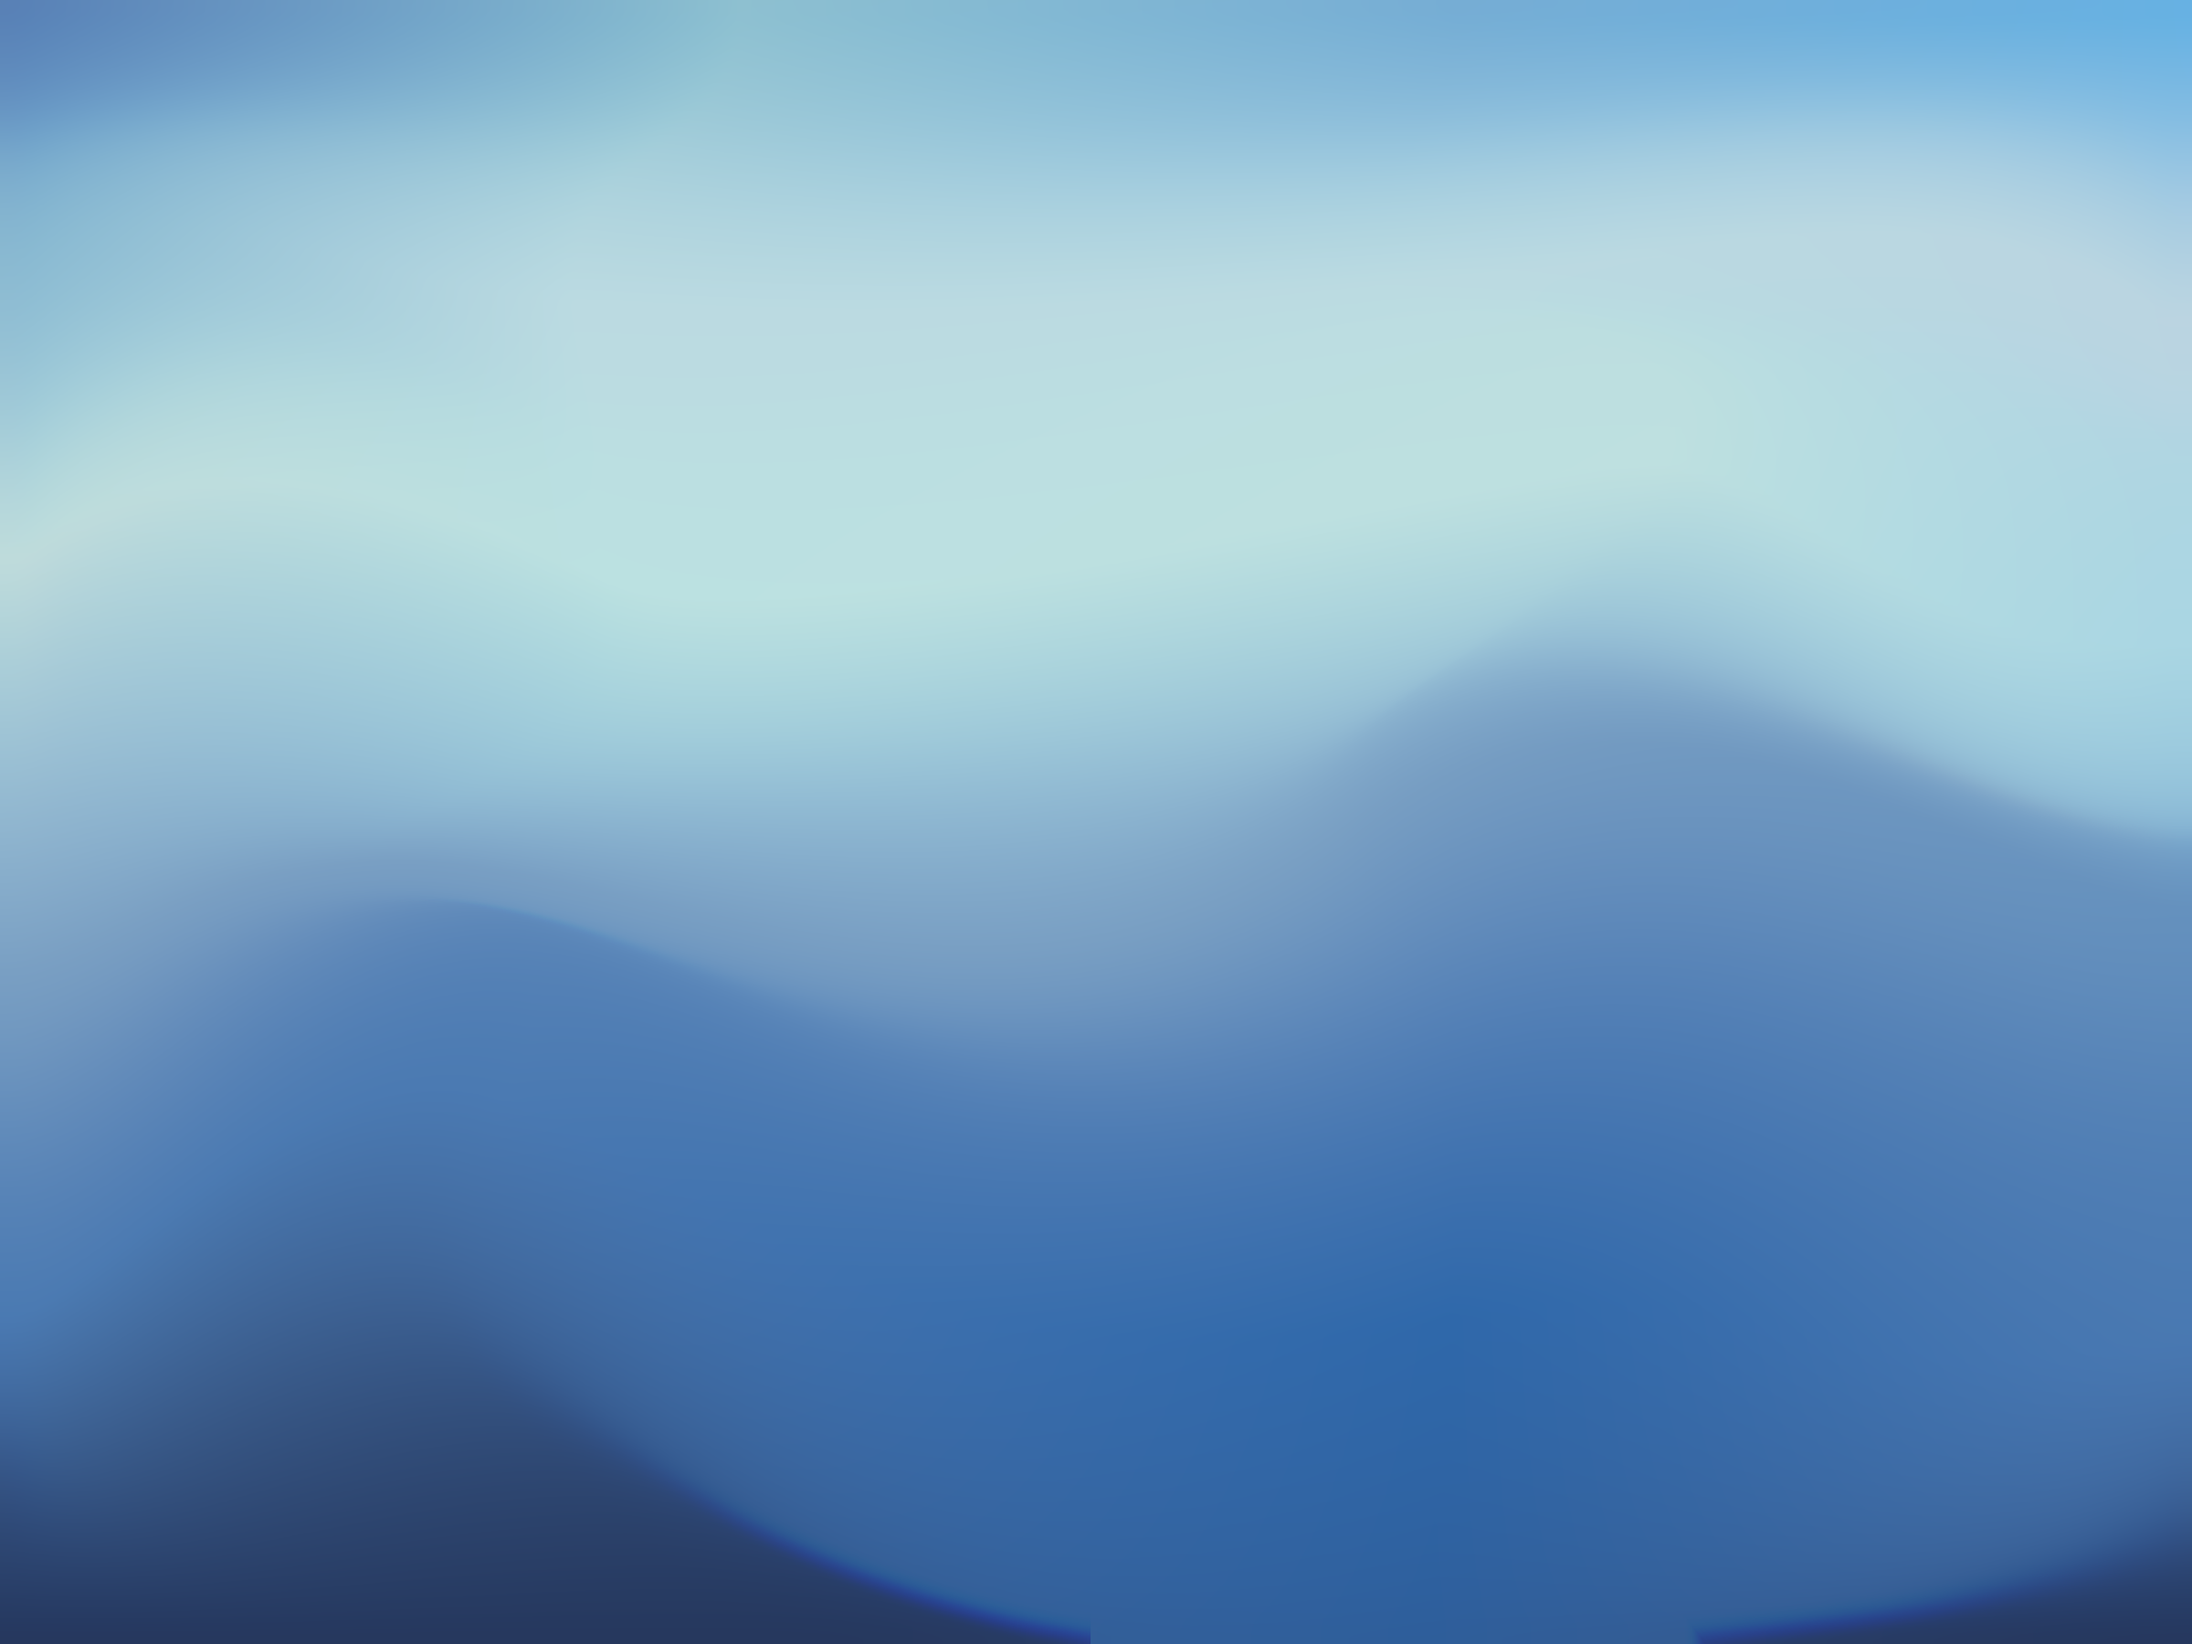
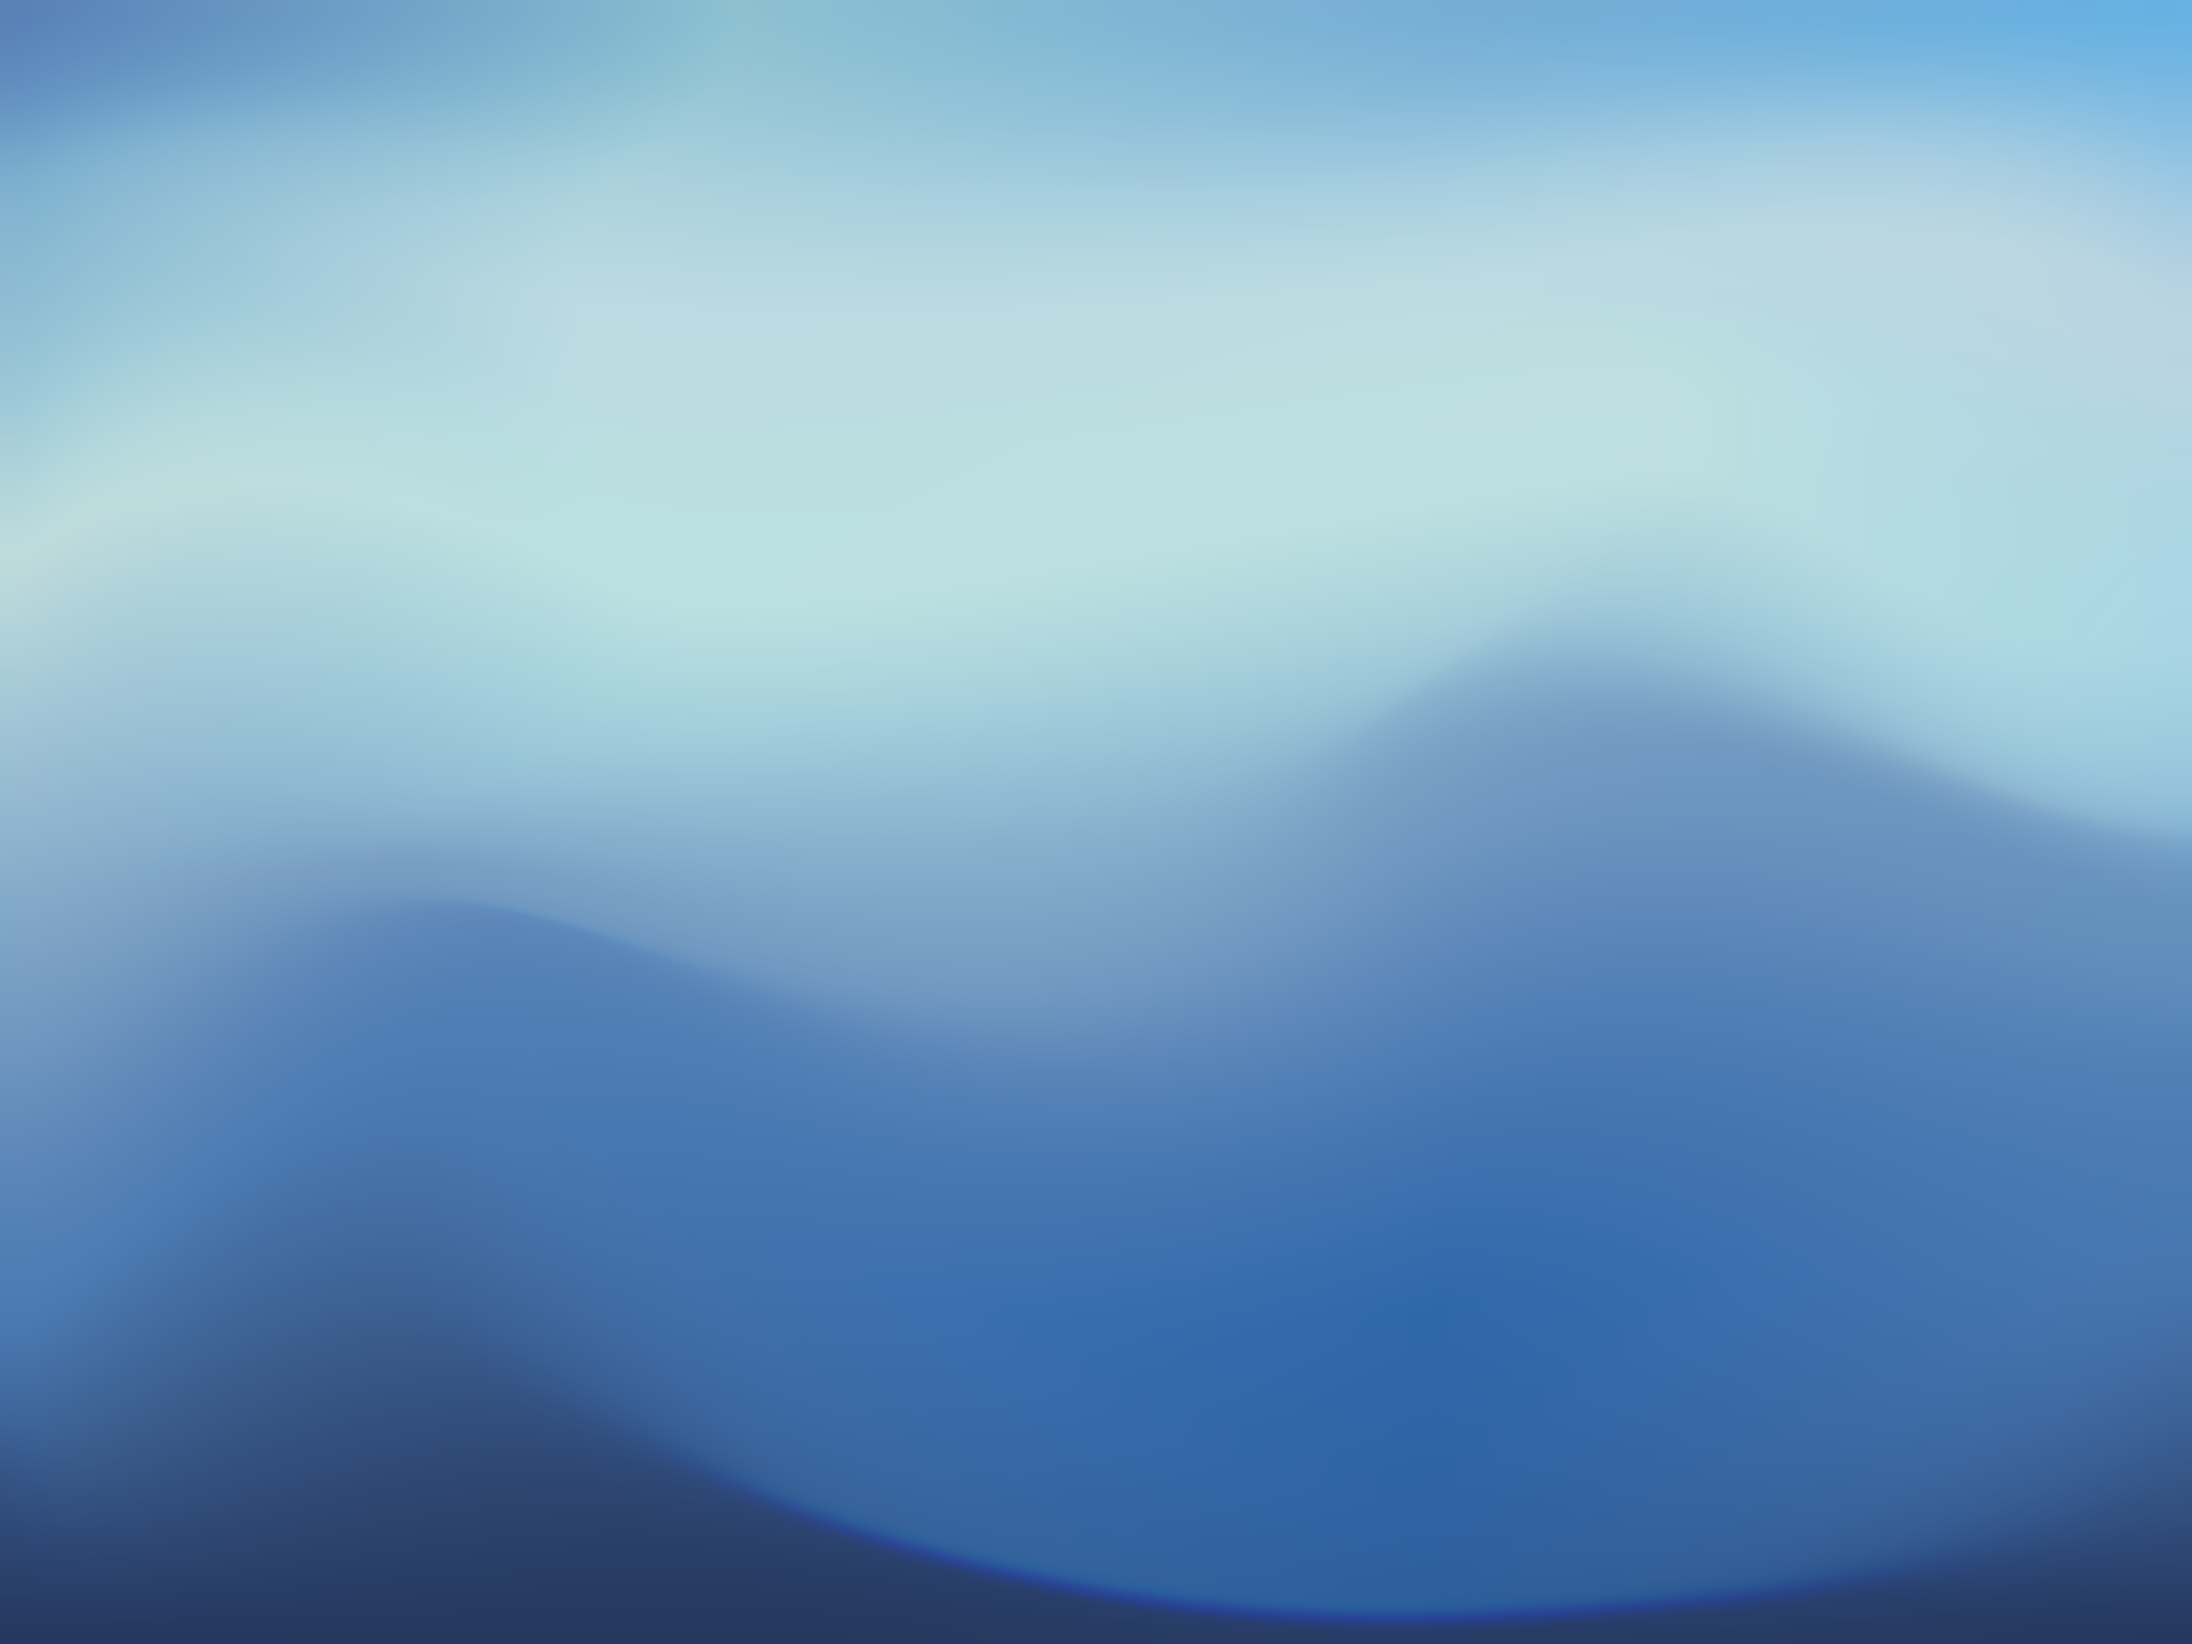
pre-mode ui优化

Changed region(s): [[0.3125, 0.9022, 0.9688, 1.0]]

diff --git a/src/components/ChatInput.tsx b/src/components/ChatInput.tsx
@@ -23,6 +23,13 @@ export default function ChatInput({ isLoading, engineReady, onSendText, onReinit
     if (focusTrigger) textareaRef.current?.focus();
   }, [focusTrigger]);
 
+  useEffect(() => {
+    const el = textareaRef.current;
+    if (!el) return;
+    el.style.height = 'auto';
+    el.style.height = `${el.scrollHeight}px`;
+  }, [text]);
+
   const doSubmit = () => {
     const value = text.trim();
     if (!value || isLoading) return;
@@ -54,9 +61,9 @@ export default function ChatInput({ isLoading, engineReady, onSendText, onReinit
           }
         }}
         placeholder="输入文字描述音乐..."
-        rows={3}
+        rows={1}
         disabled={isLoading}
-        className="w-full min-h-[108px] resize-none rounded-[12px] bg-[#111111] px-4 pt-4 pb-12 pr-16 text-base md:text-sm text-[#cccccc] placeholder:text-[#888888] outline-none transition duration-200 focus:ring-1 focus:ring-[#323232] disabled:cursor-not-allowed disabled:opacity-50"
+        className="w-full min-h-[108px] resize-none overflow-hidden rounded-[12px] bg-[#111111] px-4 pt-4 pb-12 pr-16 text-base md:text-sm text-[#cccccc] placeholder:text-[#888888] outline-none transition duration-200 focus:ring-1 focus:ring-[#323232] disabled:cursor-not-allowed disabled:opacity-50"
       />
 
       {!engineReady && (

diff --git a/src/App.tsx b/src/App.tsx
@@ -457,7 +457,7 @@ export default function App() {
 
           {/* Suggestion chips — horizontal scroll */}
           {!isLoading && !suggestionsLoading && demoSuggestions.length > 0 && (
-            <div className="flex overflow-x-auto gap-2 pb-2 mt-3 no-scrollbar">
+            <div className="suggestion-chips flex overflow-x-auto gap-2 pb-2 mt-3 no-scrollbar">
               {demoSuggestions.map((s) => (
                 <button
                   key={s}

diff --git a/src/components/Sidebar.tsx b/src/components/Sidebar.tsx
@@ -144,7 +144,7 @@ export default function Sidebar({
       <div className="flex justify-center pl-4 pr-0 pb-2">
         <div className="w-full max-w-[500px]">
           {!isLoading && !suggestionsLoading && (
-            <div className="flex flex-wrap gap-2 pb-2">
+            <div className="suggestion-chips flex flex-wrap gap-2 pb-2">
               {suggestions.map((s) => (
                 <button
                   key={s}

diff --git a/src/presentation.css b/src/presentation.css
@@ -23,3 +23,7 @@ body {
   overflow: hidden;
 }
 
+.suggestion-chips {
+  display: none !important;
+}
+
